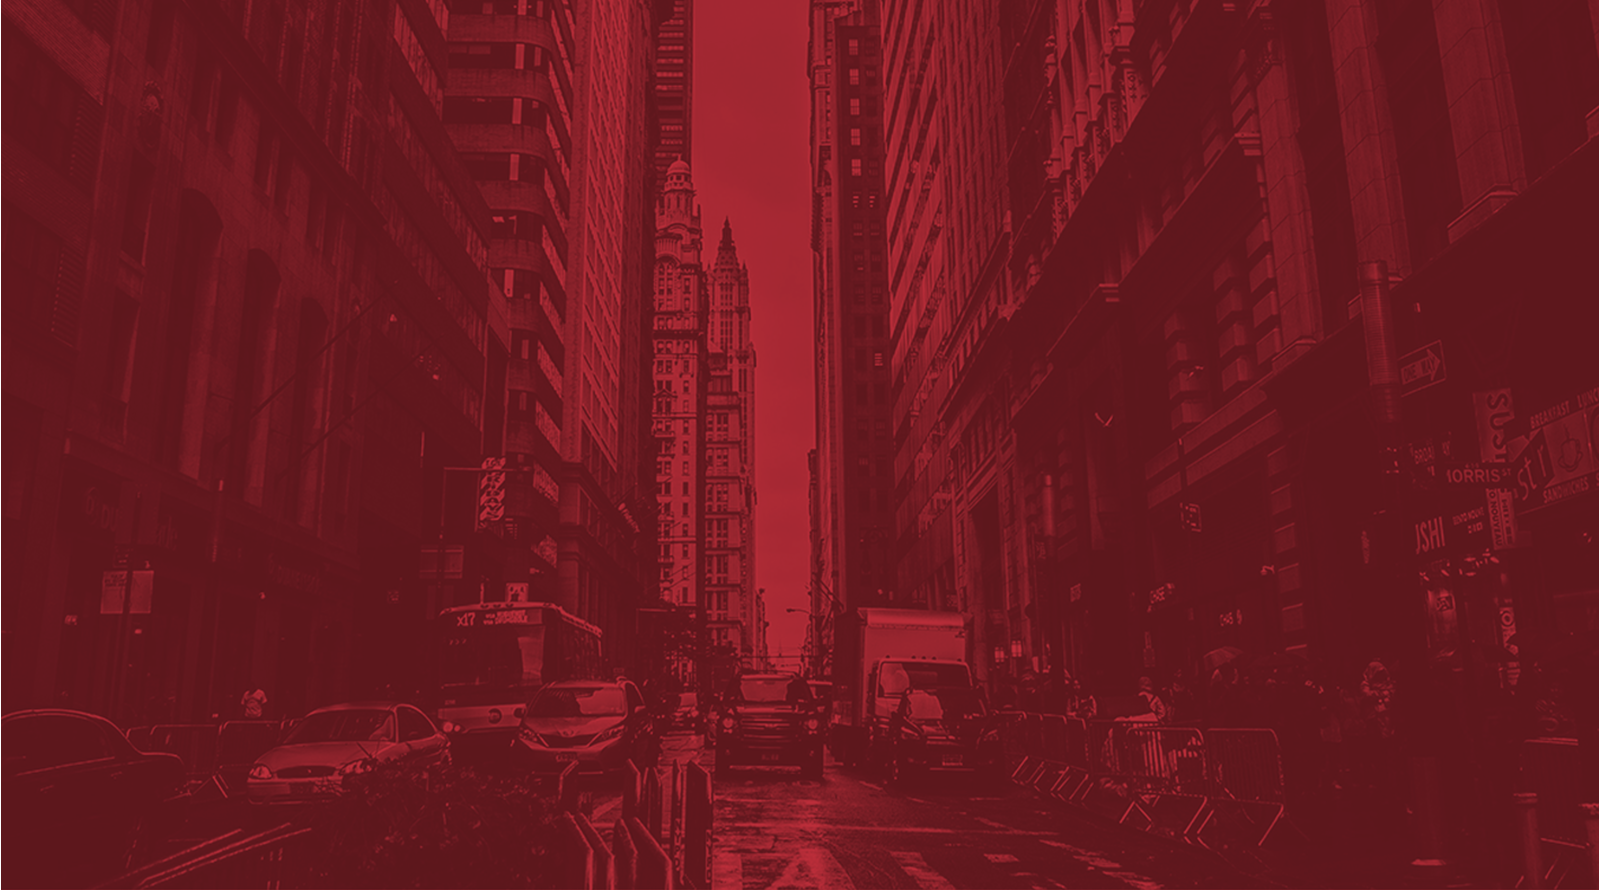
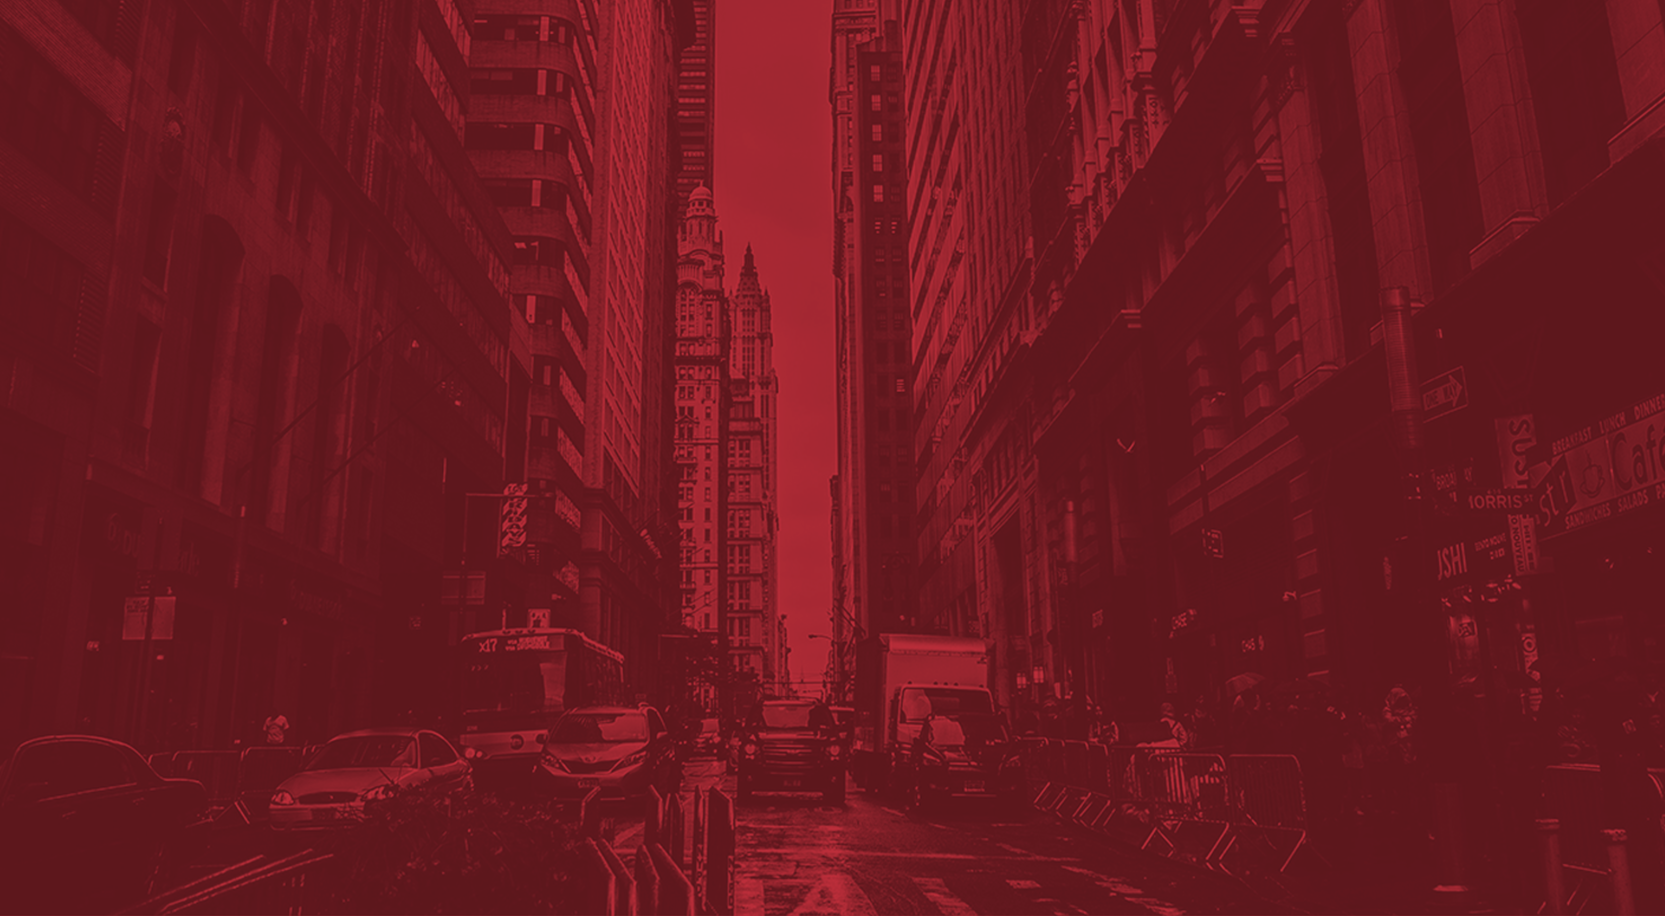
wersja 2

diff --git a/css/main.css b/css/main.css
@@ -1,5 +1,9 @@
 body {
   width: 100%;
+  background: url("../images/background.png");
+  background-size: cover;
+  height: 5104px;
+  margin: 0 auto;
 }
 
 @media screen and (min-width: 1024px) {
@@ -16,8 +20,7 @@ body {
 
 header {
   background: url("../images/header-background.png") no-repeat;
-  background-size: cover;
-  height: 890px;
+  height: 916px;
 }
 
 .navbar-header {
@@ -25,7 +28,7 @@ header {
 }
 
 @media screen and (min-width: 1024px) {
-  .container-fluid {
+  header .container-fluid {
     padding-right: 100px;
     padding-left: 100px;
     margin-top: 20px;
@@ -92,7 +95,7 @@ header {
     display: inline-block;
     margin: 0;
     width: 830px;
-    top: 70px;
+    top: 95px;
     left: 280px;
     transition: 1.5s;
   }
@@ -125,7 +128,7 @@ header {
 @media screen and (min-width: 1024px) {
   .header-title {
     width: auto;
-    top: 250px;
+    top: 285px;
     left: 150px;
   }
 }
@@ -144,7 +147,6 @@ header {
 .who-are-we {
   padding: 40px 0;
   height: 640px;
-  background: url("../images/first-section/who-are-we-background.png");
   background-size: cover;
 }
 
@@ -227,8 +229,40 @@ header {
 /* what we do */
 .what-we-do {
   height: 744px;
-  padding: 40px 0;
-  background: url("../images/second-section/second-section-background.png");
+  padding: 40px 60px;
 }
 
[1 lines of base64/hex data omitted]
+.what-we-do .col-md-12 h3 {
+  text-align: center;
+  font-size: 45px;
+  font-weight: bold;
+}
+
+.what-we-do .col-md-4 {
+  margin: 100px 0;
+}
+
+.what-we-do .col-md-4 img {
+  background-color: #bc2e3a;
+  border-radius: 50%;
+  padding: 10px;
+}
+
+.what-we-do .col-md-4 .title {
+  font-size: 24px;
+  font-weight: bold;
+  padding: 0 120px;
+}
+
+.what-we-do .col-md-4 p {
+  font-size: 1em;
+  padding-left: 190px;
+  padding-right: 50px;
+}
+
+/* how we works */
+.how-we-works {
+  height: 836px;
+}
+
[1 lines of base64/hex data omitted]

diff --git a/index.html b/index.html
@@ -75,6 +75,60 @@
 </section>
 
 <section class="what-we-do">
+    <div class="container-fluid">
+        <div class="row">
+            <div class="col-md-12"><h3>What we do</h3></div>
+        </div>
+        <div class="row">
+            <div class="col-md-4">
+                <div class="title">
+                <img src="images/second-section/icons/flag.png">
+                <span>Creative Work</span>
+                </div>
+                <p>Sed ut perspiciatis unde omnis iste natus error sit voluptatem accusantium doloremque laudantium</p>
+            </div>
+            <div class="col-md-4">
+                <div class="title">
+                <img src="images/second-section/icons/monitor.png">
+                <span>We do Best</span>
+                </div>
+                <p>Sed ut perspiciatis unde omnis iste natus error sit voluptatem accusantium doloremque laudantium</p>
+            </div>
+            <div class="col-md-4">
+                <div class="title">
+                    <img src="images/second-section/icons/wykres.png">
+                    <span>Best Company</span>
+                </div>
+                <p>Sed ut perspiciatis unde omnis iste natus error sit voluptatem accusantium doloremque laudantium</p>
+            </div>
+        </div>
+        <div class="row">
+            <div class="col-md-4">
+                <div class="title">
+                <img src="images/second-section/icons/mikro.png">
+                <span>Nice idea</span>
+                </div>
+                <p>Sed ut perspiciatis unde omnis iste natus error sit voluptatem accusantium doloremque laudantium</p>
+            </div>
+            <div class="col-md-4">
+                <div class="title">
+                    <img src="images/second-section/icons/here.png">
+                    <span>Professional</span>
+                </div>
+                <p>Sed ut perspiciatis unde omnis iste natus error sit voluptatem accusantium doloremque laudantium</p>
+            </div>
+            <div class="col-md-4">
+                <div class="title">
+                    <img src="images/second-section/icons/mail.png">
+                    <span>Great Services</span>
+                </div>
+                <p>Sed ut perspiciatis unde omnis iste natus error sit voluptatem accusantium doloremque laudantium</p>
+            </div>
+        </div>
+    </div>
+
+</section>
+<section class="how-we-works">
 
 
 </section>

diff --git a/sass/main.scss b/sass/main.scss
@@ -3,6 +3,10 @@ $tablet-up: "screen and (min-width: 1024px)";
 
 body {
   width: 100%;
+  background: url("../images/background.png");
+  background-size: cover;
+  height: 5104px;
+  margin: 0 auto;
   @media #{$tablet-up} {
 
     margin: 0 auto;
@@ -19,8 +23,7 @@ body {
 }
 header {
   background: url("../images/header-background.png") no-repeat;
-  background-size: cover;
-  height: 890px;
+  height: 916px;
 }
 
 
@@ -29,7 +32,7 @@ header {
 
 }
 
-.container-fluid {
+header .container-fluid {
   @media #{$tablet-up} {
     padding-right: 100px;
     padding-left: 100px;
@@ -93,7 +96,7 @@ header {
     display: inline-block;
     margin: 0;
     width: 830px;
-    top: 70px;
+    top: 95px;
     left: 280px;
     transition: 1.5s;
   }
@@ -120,7 +123,7 @@ header {
   top: 30%;
   @media #{$tablet-up} {
     width: auto;
-    top: 250px;
+    top: 285px;
     left: 150px;
   }
  img {
@@ -137,7 +140,6 @@ header {
 .who-are-we {
   padding: 40px 0;
   height: 640px;
-  background: url("../images/first-section/who-are-we-background.png");
   background-size: cover;
 }
 
@@ -211,9 +213,43 @@ header {
 
 .what-we-do {
   height: 744px;
-  padding: 40px 0;
-  background: url("../images/second-section/second-section-background.png");
-
+  padding: 40px 60px;
 
 }
 
+.what-we-do .col-md-12 h3 {
+  text-align: center;
+  font-size: 45px;
+  font-weight: bold;
+}
+
+.what-we-do .col-md-4 {
+  margin: 100px 0;
+
+  img {
+    background-color: #bc2e3a;
+    border-radius: 50%;
+    padding: 10px;
+  }
+
+  .title {
+    font-size: 24px;
+    font-weight: bold;
+    padding: 0 120px;
+  }
+
+  p {
+    font-size: 1em;
+    padding-left: 190px;
+    padding-right: 50px;
+
+  }
+}
+
+
+
+/* how we works */
+
+.how-we-works {
+  height: 836px;
+}
